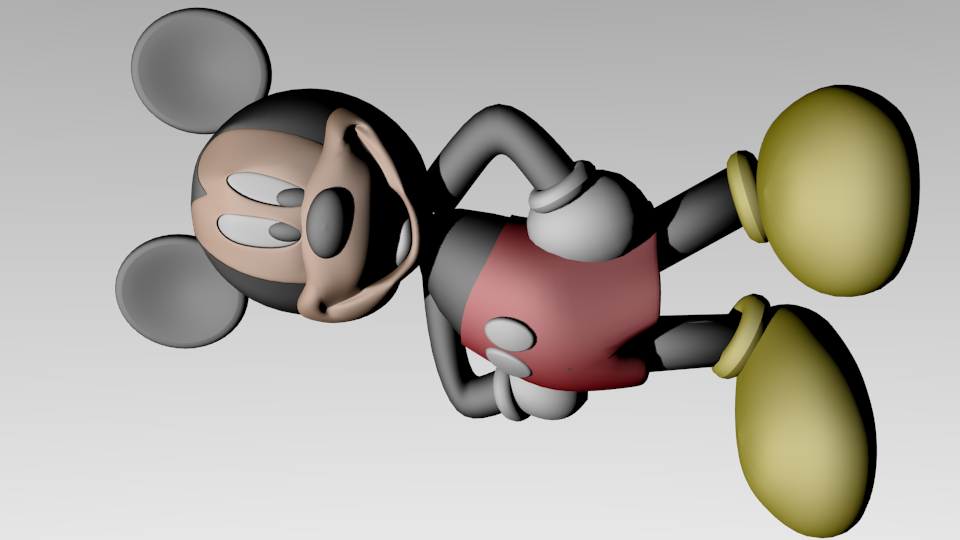
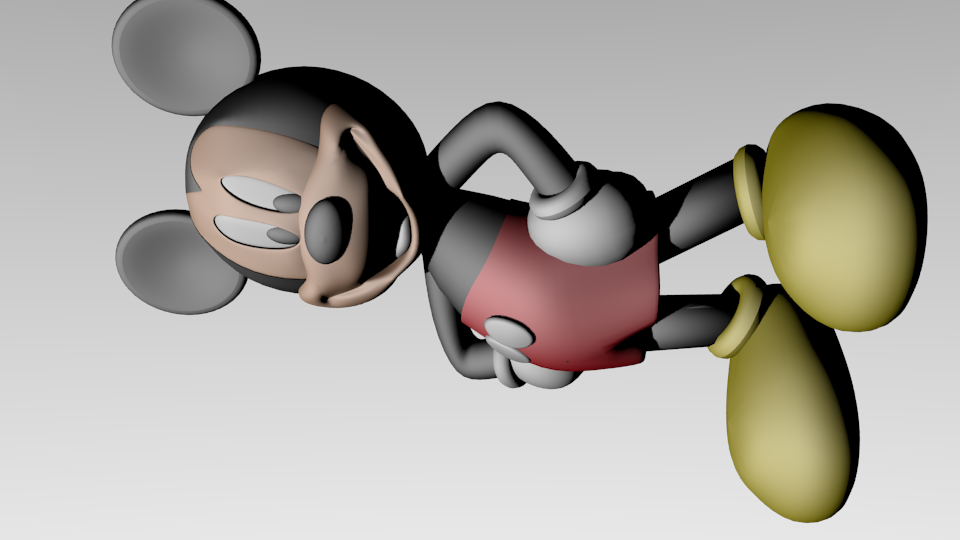
New images.

diff --git a/Blender/CreateBlenderContent.py b/Blender/CreateBlenderContent.py
@@ -7,7 +7,7 @@ cam = bpy.dataobjects['Camera']
 # Loop to create images from different perspectives.
 for counter in range(0,18):
     # Angle is calculated according to counter.
-    alpha = -5*counter
+    alpha = -10*counter
     # Radius of the circle.
     h     = -1.1
     # Coordinates for the new camera location.
